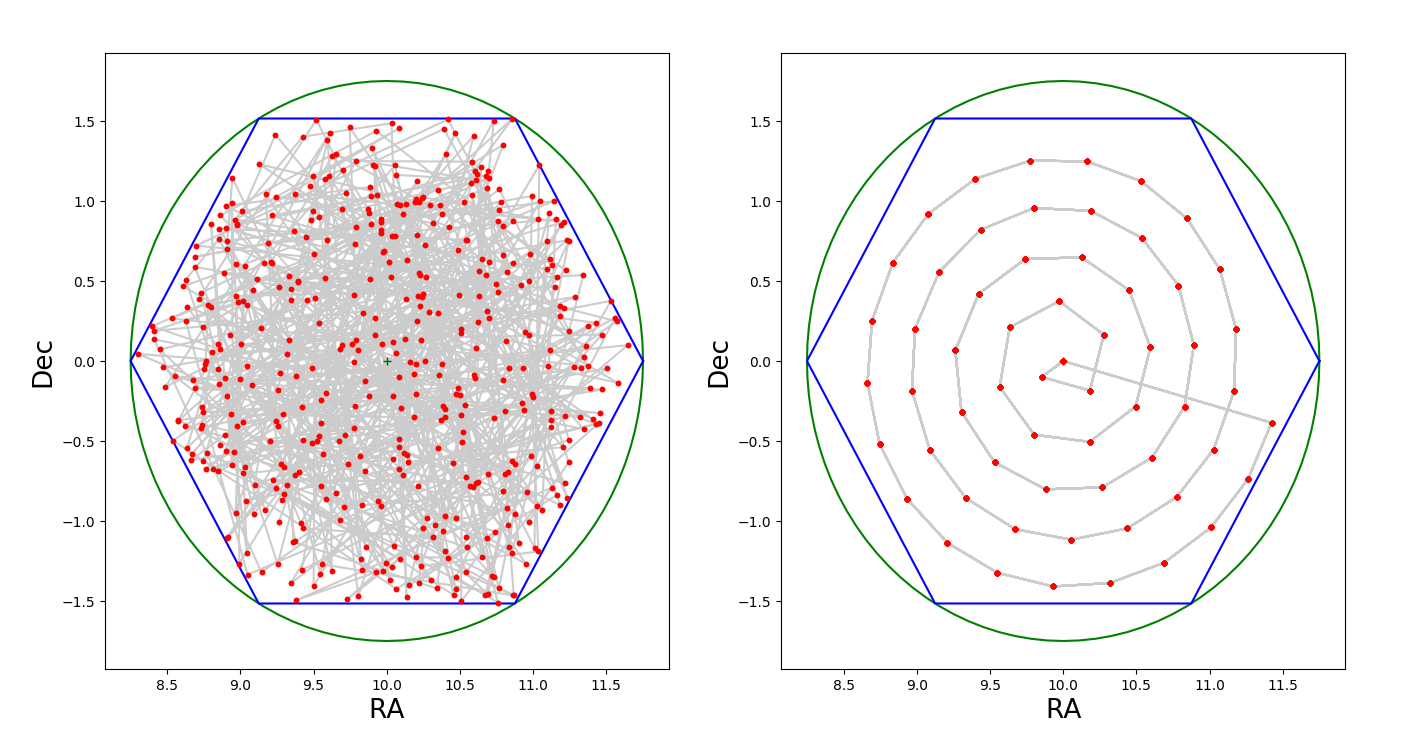
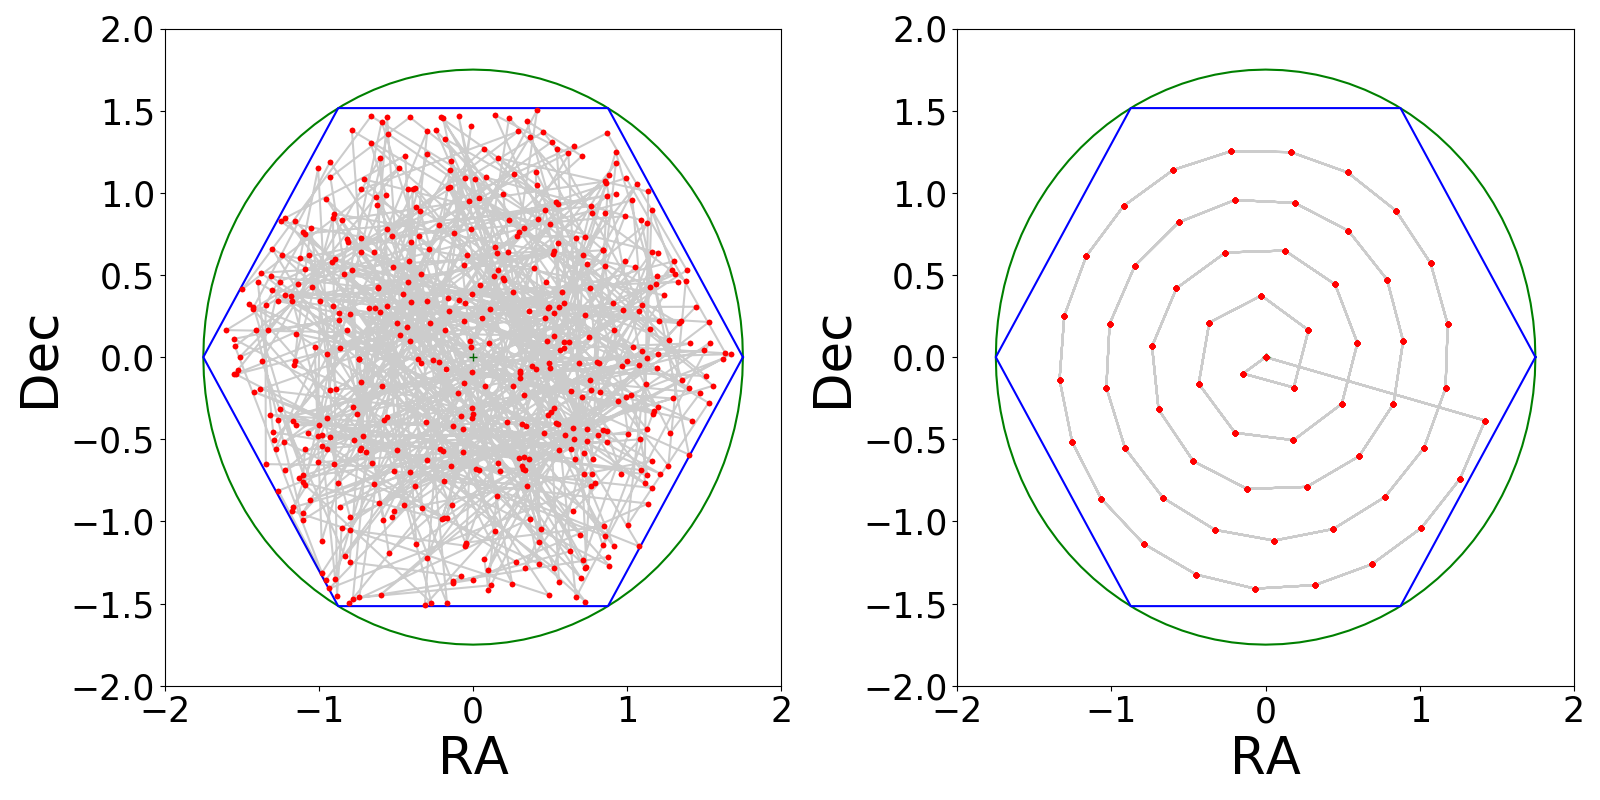
Update figure 3

diff --git a/coadds.tex b/coadds.tex
@@ -603,12 +603,11 @@ offsets for these two patterns.
 \begin{figure}
 \includegraphics[width=0.5\textwidth]{Dither.png}
 \caption{
-Two different LSST dither patterns are shown \citep{LSSTSims}.  On the left each visit gets a 
-random position and on the right a spiral pattern.  The green circle represents 
-the approximate size of the LSST focal plane.  Each dot shows a separate offset 
-from the nominal pointing.  The dots are restricted to within the blue hexagon 
-for this study. \rachel{Give some reference for where these dither patterns are defined.  Also, the
-  aspect ratio seems a bit funny?}
+Two different LSST dither patterns are shown taken from \cite{LSSTSims}.  
+On the left each visit gets a random position and on the right a spiral pattern.
+Each dot shows a separate offset from the nominal pointing.
+The green circle represents the approximate size of the LSST focal plane.  
+The dots are restricted to within the blue hexagon for this study.
 }
 \label{fig:dither}
 \end{figure}
